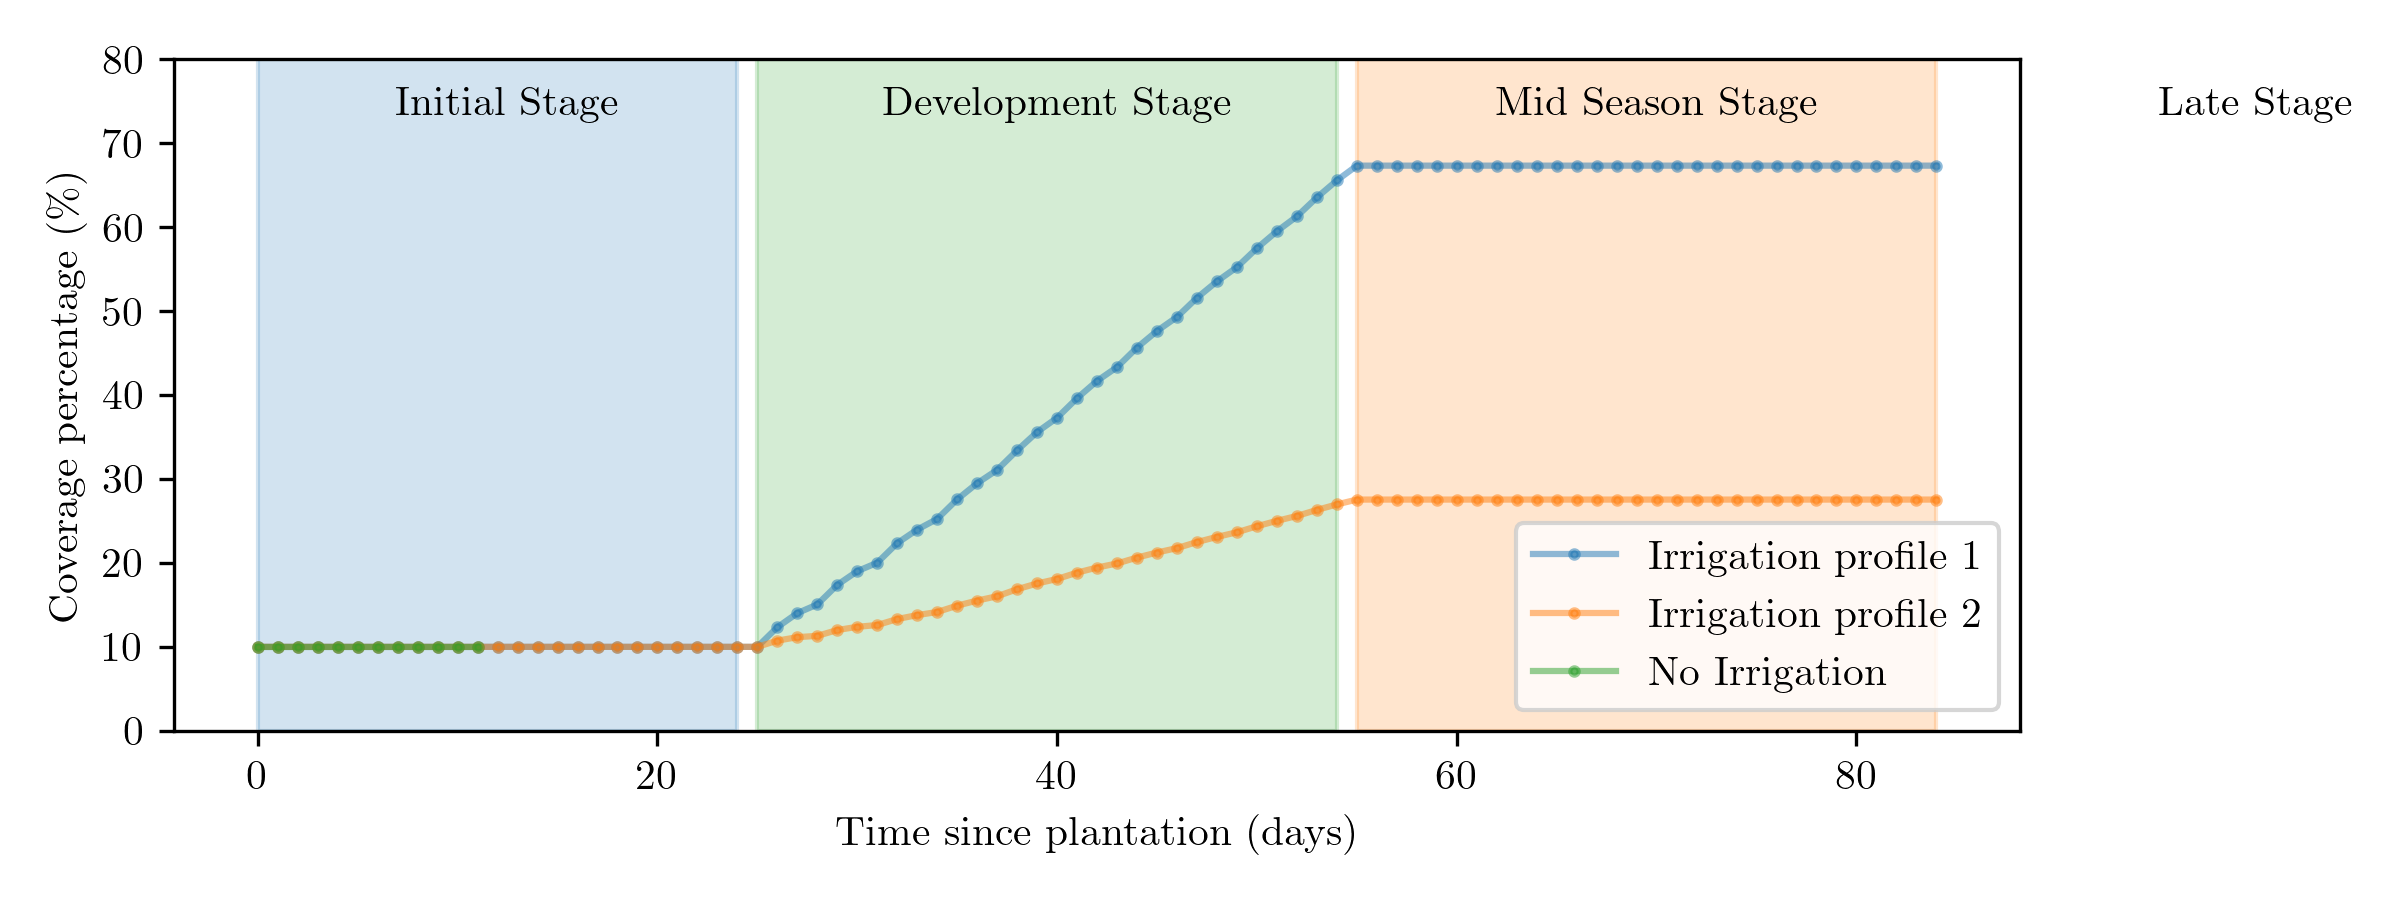
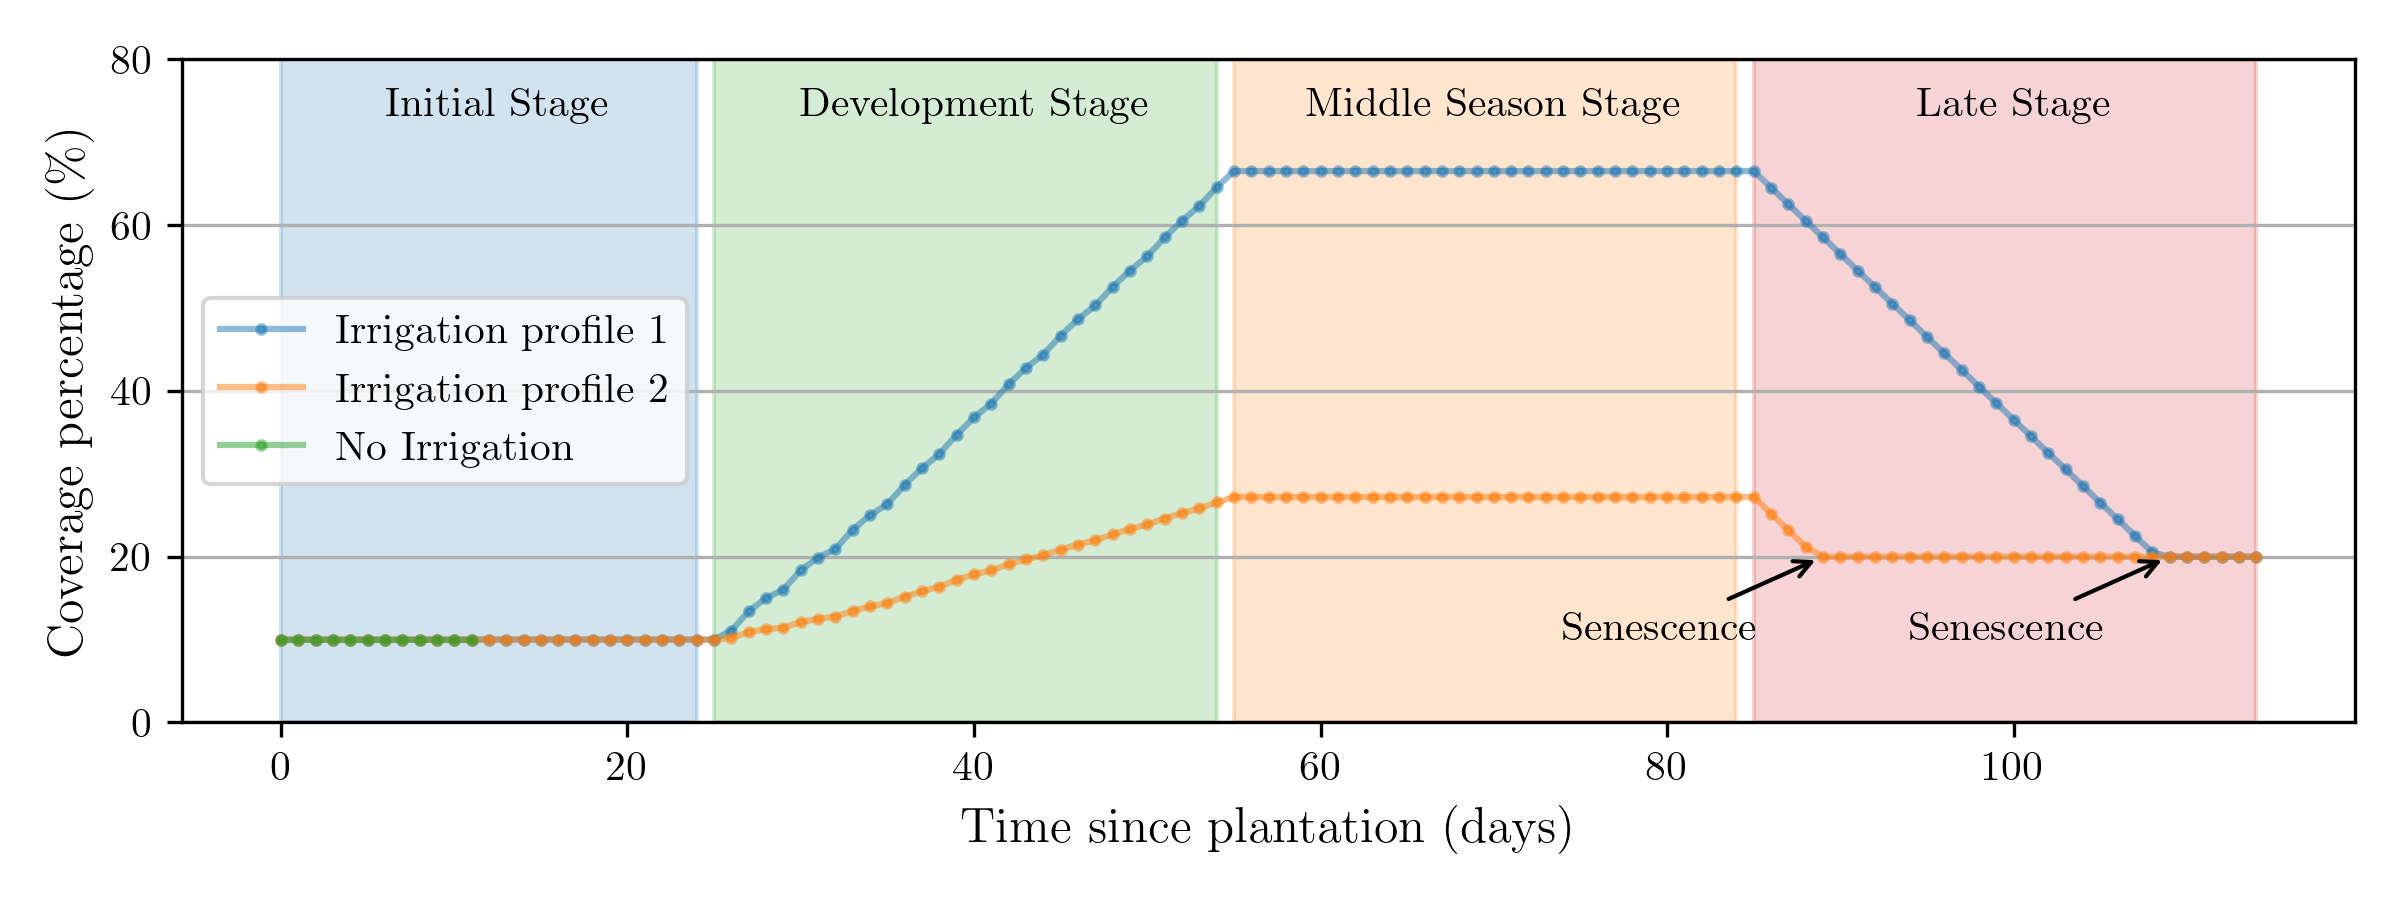
changes in plots

diff --git a/crop_simu_results.py b/crop_simu_results.py
@@ -34,7 +34,7 @@ seed = 1
 fig_size = (8, 3)
 
 #%% First lets simulate the irrgated one 
-simu_days = np.sum(potato["stages_duration"][:-1])
+simu_days = np.sum(potato["stages_duration"])
 initial_weather_data = weather_data.loc[weather_data["doy"] == cultivate_env.doy].iloc[0].to_dict()
 precipitations = []
 obs, info = cultivate_env.start(seed=seed)
@@ -56,7 +56,7 @@ crop_data_nw, soil_data_nw = cultivate_nw.crops[0].get_hist_data()
 t = np.cumsum([0] + potato["stages_duration"]) 
 v0 = potato["root_depth_max"] +.2
 v1 = potato["f_c"][1] 
-stage_names = ["Initial Stage", "Development Stage", "Mid Season Stage", "Late Stage"]
+stage_names = ["Initial Stage", "Development Stage", "Middle Season Stage", "Late Stage"]
 colors = ["tab:blue", "tab:green", "tab:orange", "tab:red"]
 
 simu_time = np.array(range(simu_days))
@@ -72,9 +72,15 @@ ax.plot(simu_time, crop_data["root_depth"][:-1], label="Irrigation profile 1", a
 #ax.plot(simu_time, crop_data["root_depth"][:-1], label="Irrigation profile 1", marker='o', linestyle='-')
 ax.plot(simu_time2[:-1], crop_data_2["root_depth"][:-1], label="Irrigation profile 2", alpha = .75, marker='o', markersize=2, linestyle='-')
 ax.plot(simu_time_nw, crop_data_nw["root_depth"], label="No Irrigation", alpha = .75, marker='o', markersize=2, linestyle='-')
-ax.set_ylabel("Root Depth (m)")
-ax.set_xlabel("Time since plantation (days)")
+# Add an arrow pointing to the last point of the no irrigation profile
+ax.annotate("Wilting", xy=(simu_time_nw[-1], crop_data_nw["root_depth"][-1]), 
+            xytext=(simu_time_nw[-1] + 10, crop_data_nw["root_depth"][-1] + 0.2),
+            arrowprops=dict(facecolor='black', arrowstyle='->'), fontsize=10)
+ax.set_ylabel("Root Depth (m)", fontsize=12)
+ax.set_xlabel("Time since plantation (days)", fontsize=12)
+#ax.hlines(potato["root_depth_max"], 0, simu_days, color="gray", linestyles="--", label="Nominal root depth")
 ax.invert_yaxis()
+ax.grid(axis='y', which="major")
 
 for idx, item in enumerate(t[:-1]):
     a, b = (t[idx], t[idx+1]) 
@@ -86,7 +92,7 @@ ax.legend(loc = "upper right")
 fig.tight_layout()
 fig.savefig(plots_path + "root_depth.png", dpi=300)
 
-#%% plot the coverage 
+#%% plot the foliar coverage 
 vv1 = 100*(v1 *3+ max(crop_data["f_c"][:-1]))/4
 
 fig_1, ax_1 = plt.subplots()
@@ -102,10 +108,26 @@ for idx, item in enumerate(t[:-1]):
 ax_1.plot(simu_time, 100*crop_data["f_c"][:-1], alpha = .5, label = "Irrigation profile 1", marker='o', markersize=2, linestyle='-')
 ax_1.plot(simu_time2[:-1], 100*crop_data_2["f_c"][:-1], alpha = .5, label = "Irrigation profile 2", marker='o', markersize=2, linestyle='-')
 ax_1.plot(simu_time_nw, 100*crop_data_nw["f_c"], alpha = .5, label = "No Irrigation", marker='o', markersize=2, linestyle='-')
+# Find the first point in the late stage where the coverage percentage reaches 0.2
+late_stage_start = t[3]
+late_stage_end = t[4]
+
+first_point_profile_1 = next((i for i in range(late_stage_start, late_stage_end) if crop_data["f_c"][i] <= 0.2), simu_time[-1])
+first_point_profile_2 = next((i for i in range(late_stage_start, late_stage_end) if crop_data_2["f_c"][i] <= 0.2), simu_time2[-1])
+
+# Add arrows pointing to the first points reaching 0.2 in the late stage
+ax_1.annotate("Senescence", xy=(first_point_profile_1, 100 * crop_data["f_c"][first_point_profile_1]), 
+              xytext=(first_point_profile_1 - 15, 100 * crop_data["f_c"][first_point_profile_1] - 10),
+              arrowprops=dict(facecolor='black', arrowstyle='->'), fontsize=10)
+
+ax_1.annotate("Senescence", xy=(first_point_profile_2, 100 * crop_data_2["f_c"][first_point_profile_2]), 
+              xytext=(first_point_profile_2 - 15, 100 * crop_data_2["f_c"][first_point_profile_2] - 10),
+              arrowprops=dict(facecolor='black', arrowstyle='->'), fontsize=10)
 ax_1.set_ylim(0, 100*v1)
-ax_1.set_ylabel(r"Coverage percentage (\%)")
-ax_1.set_xlabel("Time since plantation (days)")
+ax_1.set_ylabel(r"Coverage percentage (\%)", fontsize=12)
+ax_1.set_xlabel("Time since plantation (days)", fontsize=12)
 ax_1.legend(loc = "best")
+ax_1.grid(axis='y')
 fig_1.tight_layout()
 fig_1.savefig(plots_path + "coverage.png", dpi=300)
 

diff --git a/environments/Cultivates.py b/environments/Cultivates.py
@@ -302,7 +302,7 @@ class Crop:
         self.hist_data.append(obs)
         # compute in which stage i am
 
-        if self.days_since_plantation == sum(self.stages_duration[:-1]):
+        if self.days_since_plantation == sum(self.stages_duration):
             self._is_active = False
 
         if np.isclose(self.Ks, 0.0):
@@ -481,7 +481,7 @@ class Crop:
             Ky = self.Ky_list[2]
         elif t <= t3:  # late season
             Kcb = (self.Kcb_list[2] - self.Kcb_list[1]) / (t3 - t2) * (t - t2) + self.Kcb_list[1]
-            self.f_c = np.max([self.f_c + (self.f_c_list[2] - self.f_c_list[1]) / (t3 - t2), 0.1])
+            self.f_c = np.max([self.f_c + (self.f_c_list[2] - self.f_c_list[1]) / (t3 - t2), self.f_c_list[-1]])
             Ky = self.Ky_list[3]
         else:  # goodbye
             Kcb, self.f_c = 0.0, 0.0

diff --git a/environments/WMS_env.py b/environments/WMS_env.py
@@ -55,7 +55,7 @@ class CultivateEnv(gym.Env):
         array_obs = obs_dict_2_obs_array(dict_obs)
 
         for crop in self.cultivates.crops:
-            if crop.is_active():  # if any crop is active, the episode is not terminated
+            if crop.days_since_plantation < np.sum(crop.stages_duration[:-1]):  # if any crop is active, the episode is not terminated
                 break
             terminated = True  # all crops are inactive, so the episode is terminated
 
